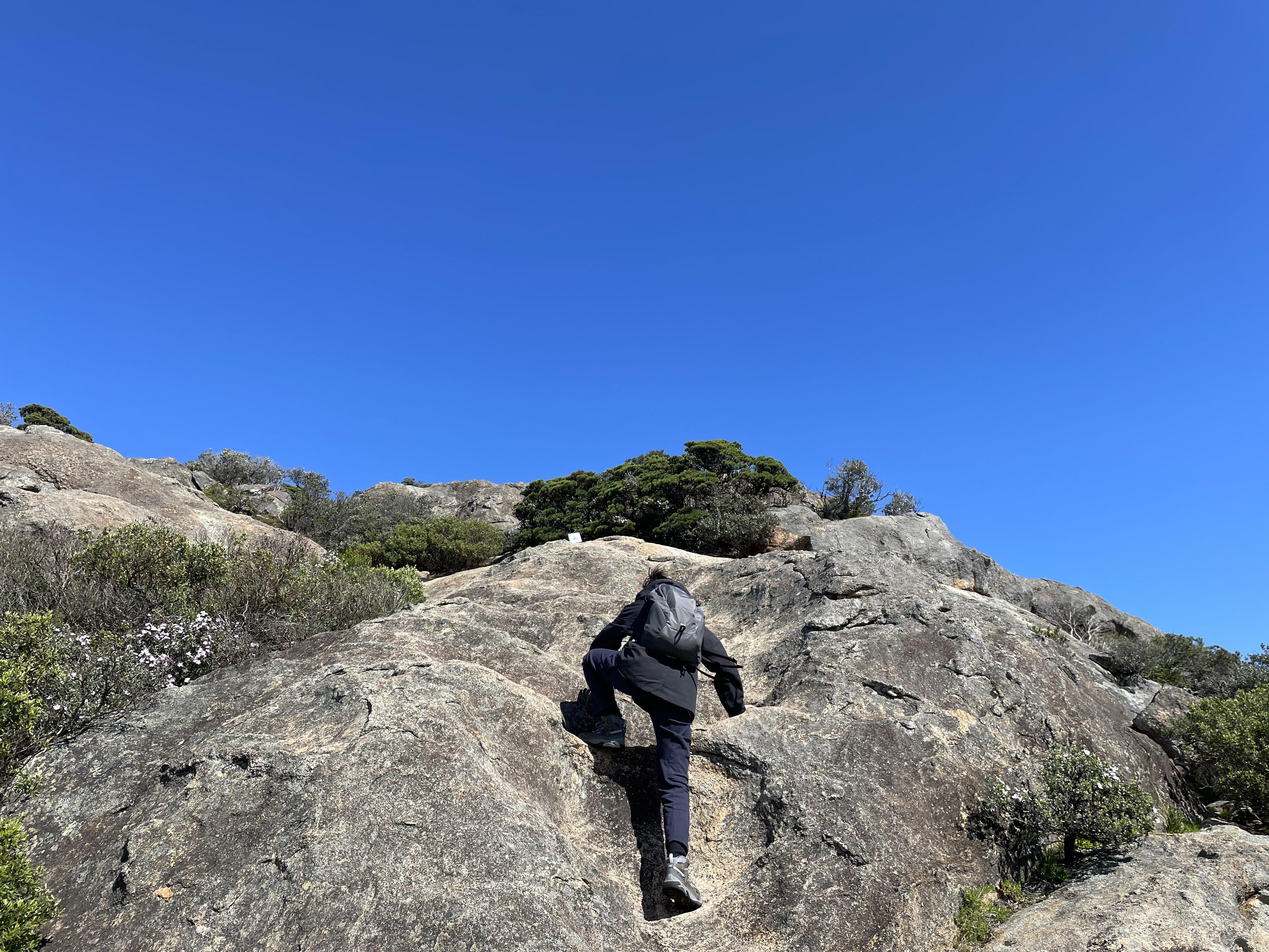
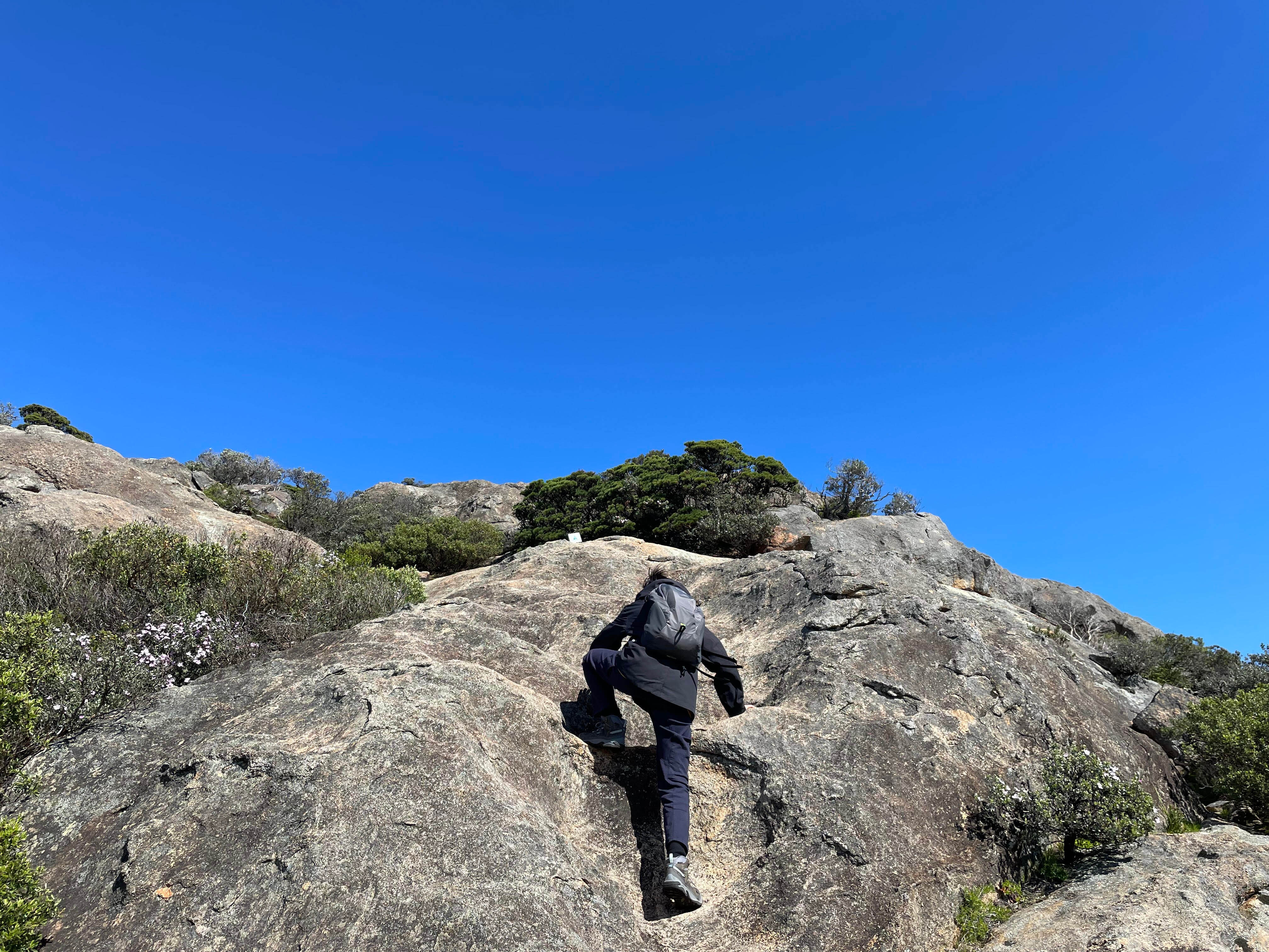
compressed the image files

diff --git a/index.html b/index.html
@@ -116,7 +116,7 @@
               </div>
             </div>  
             <div class="link-div">
-              <a href="https://github.com/ambo-n/sprout">Crowdfunding FrontEnd Build (ongoing)</a>
+              <a href="https://ambon-sprout.netlify.app/">Crowdfunding FrontEnd Build (ongoing)</a>
             </div> 
           </div>
           <div class="card">
